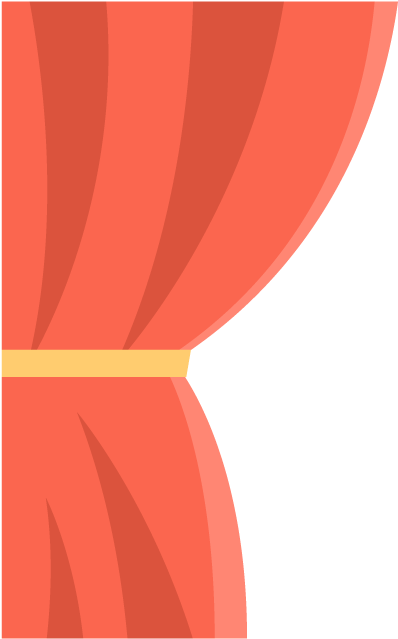
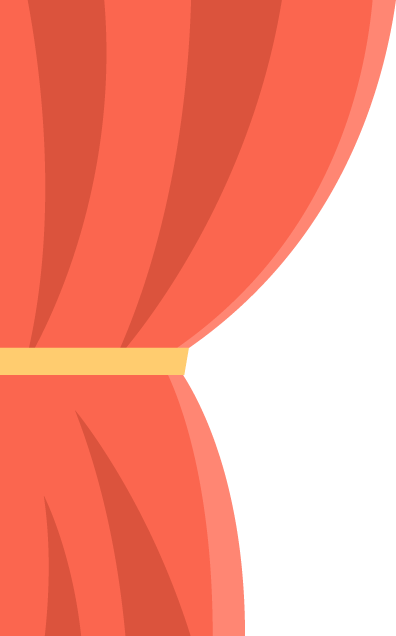
corrected curtain images and adjusted stage promt styling.

diff --git a/src/assets/index.css b/src/assets/index.css
@@ -237,14 +237,14 @@ h1, h2, h3, h4, h5 {
 }
 
 #prompt {
-  position: fixed;
+  position: absolute;
   z-index: 9;
   background: #fff;
   padding: 1.5%;
   width: 17%;
   margin-left: 40%;
   margin-right: 40%;
-  margin-top: 20%;
+  margin-top: 24%;
   border-radius: 2px;
   box-shadow: 0px 0px 15px 5px rgba(0, 0, 0, .75);
 }
